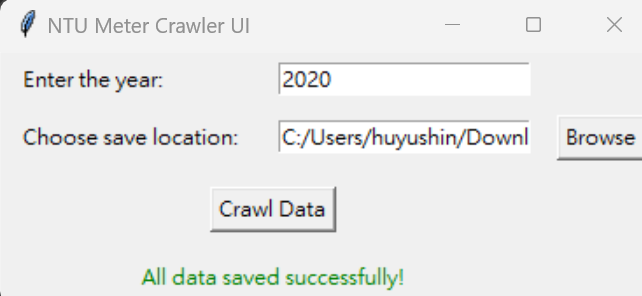
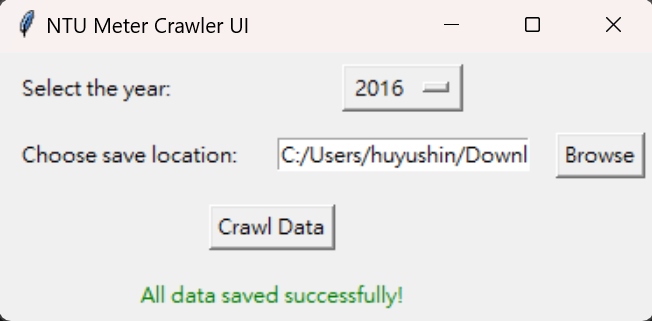
UI

diff --git a/crawling_meters_data.py b/crawling_meters_data.py
@@ -60,7 +60,7 @@ def crawl_data():
 
         electric_use = [float(value) if isfloat(value) else -1 for value in electric_use] # np.nan
         data = pd.DataFrame(electric_use)
-        data = data.rename(columns={0: 'Meter'})
+        data = data.rename(columns={0: meter})
         data.to_excel(f"{path}/{meter}.xlsx", index=False)
 
     result_label.config(text="All data saved successfully!")
@@ -75,10 +75,15 @@ root = tk.Tk()
 root.title("NTU Meter Crawler UI")
 
 # Year input
-year_label = tk.Label(root, text="Enter the year:")
+year_label = tk.Label(root, text="Select the year:")
 year_label.grid(row=0, column=0, padx=10, pady=5, sticky="w")
-year_entry = tk.Entry(root)
-year_entry.grid(row=0, column=1, padx=10, pady=5)
+current_year = datetime.now().year # Define a list of years from 2014 to the previous year
+years = [str(year) for year in range(2014, current_year)]
+year_entry = tk.StringVar(root) # Set a tkinter variable to store the selected year
+year_entry.set(str(current_year - 1))  # Set default value to the previous year
+year_menu = tk.OptionMenu(root, year_entry, *years) # Create the dropdown menu for selecting the year
+year_menu.grid(row=0, column=1, padx=10, pady=5)
+
 
 # Path input
 path_label = tk.Label(root, text="Choose save location:")
@@ -97,3 +102,4 @@ result_label = tk.Label(root, text="", fg="green")
 result_label.grid(row=3, column=0, columnspan=2, padx=10, pady=5)
 
 root.mainloop()
+

diff --git a/README.md b/README.md
@@ -7,6 +7,6 @@
 
 **User Interface**
 
-|Downloading data |Complete|
-|-----------------|--------|
-|<img src="pic\downloading.png" alt="image" width="300">|<img src="pic\complete.png" alt="image" width="300">|
+|Selcting data|Downloading data |Complete|
+|-|-|-|
+|<img src="pic\downloading.png" alt="image" width="200">|<img src="pic\downloading.png" alt="image" width="200">|<img src="pic\complete.png" alt="image" width="200">|
